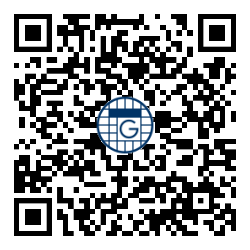
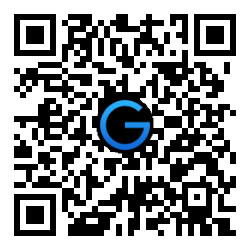
Sourcecode Seriousgulden.nl

diff --git a/index.html b/index.html
@@ -2,15 +2,18 @@
 
 <head>
 <title> SeriousGulden - Doneer Gulden voor Serious Request </title>
-    <link rel="stylesheet" type="text/css" href="demo.css">
-    <script type="text/javascript" src="http://ajax.googleapis.com/ajax/libs/jquery/1.8.1/jquery.min.js"></script>
-	<script src="http://cdnjs.cloudflare.com/ajax/libs/waypoints/2.0.3/waypoints.min.js"></script>
-	<script src="jquery.counterup.min.js"></script>
-    <script type="text/javascript">
+   <link rel="stylesheet" type="text/css" href="http://gulden.cbtoo.nl/wp-content/plugins/nlg/demo.css">
+<script type="text/javascript" src="http://ajax.googleapis.com/ajax/libs/jquery/1.8.1/jquery.min.js"></script> 
+<script type="text/javascript" src="https://cdnjs.cloudflare.com/ajax/libs/waypoints/4.0.0/jquery.waypoints.min.js"></script> 
+<script type="text/javascript" src="http://seriousgulden.nl/wp-content/uploads/jquery.counterup2.0.5.js"></script>
+<script type="text/javascript">
        
+	var oldbalance = 0;
+	var newbalance = 0;
     function getdata()
 	{
-	var guldenaddress = 'GZcNd1FdkHwBAdyaCebMfWenTbACqdfDk9';
+	var guldenaddress = 'GMEpjpcXsk3bgGipSLsQEJ6jdC24fM3tdV';
+	
     $.ajax({
         url: "https://blockchain.gulden.com/api/addr/" + guldenaddress +"/",
         type: 'GET',
@@ -22,19 +25,89 @@
             return true;
         },
         success: function(data){ 
-		$('.counter').append(data.balance);
-		$('.counter').counterUp(
-		{
-			delay: 5 ,
-			time: 1000
-		});
+		
+		if(data.balance +data.unconfirmedBalance > 0){
+			if(oldbalance == 0 && newbalance == 0){
+				newbalance = data.balance + data.unconfirmedBalance
+				$('.counter')[0].innerHTML = '';
+				$('.counter').append(newbalance.toFixed(2));
+				$('.counter').counterUp(
+				{
+					delay: 5 ,
+					time: 1000
+				});				
+			}
+			else{
+				if((data.balance + data.unconfirmedBalance) != newbalance){
+				oldbalance = newbalance;
+				newbalance = data.balance + data.unconfirmedBalance;
+				$('.counter')[0].innerHTML = '';
+				$('.counter').append(newbalance.toFixed(2));
+				$('.counter').counterUp(
+				{
+					delay: 5 ,
+					time: 1000
+				});
+						}
+					}
+				
+				}
+
 		
 		
         }
     });
 };
-function counter(){
-}
+
+var timeout = setInterval(getdata, 5000);
+
+
+
+// Click on button to scroll down the page.
+
+$('document').ready(function(){
+getdata(); 
+var buttonContinue = $('a.button-continue');
+ buttonContinue.click(function(){
+   var scrollToPosition = $('#secondsection').offset().top;
+   $('html, body').animate({
+     scrollTop: scrollToPosition
+   }, 500);
+ });
+
+
+});
+
+
+
+    </script>
+<style>
+a.button-continue {
+cursor: pointer;
+   position: absolute;
+   left: 0;
+   right: 0;
+   bottom: 4%;
+   display: block;
+   margin: 0 auto;
+   width: 55px;
+   height: 55px;
+   background-image: url(http://seriousgulden.nl/wp-content/uploads/home-banners-continue.png);
+   background-position: center center;
+   background-repeat: no-repeat;
+   background-color: #0097dd ;
+   z-index: 9999;
+   border-radius: 100%;
+   -o-border-radius: 100%;
+   -moz-border-radius: 100%;
+   -webkit-border-radius: 100%;
+   transform: translateY(-4%);
+   animation: updown 0.5s infinite;
+   -o-animation: updown 0.5s infinite;
+   -moz-animation: updown 0.5s infinite;
+   -webkit-animation: updown 0.5s infinite;
+   animation-direction: alternate;
+</style>
     </script>
 </head>
 
@@ -48,7 +121,8 @@ function counter(){
 		<div class="container"> 
 			<h1>Er zijn al <img src="https://developer.gulden.com/images/branding/gblue32x32.png" style="margin-top:2px;"/>&nbsp;<div id="sample_goal"><span class="counter"></span></div> opgehaald!</h1>
 		</div>
-		<img src="qr.png" />
+		<img src="qr.png" /><br />
+		Gulden adres: <a href="Gulden:GMEpjpcXsk3bgGipSLsQEJ6jdC24fM3tdV">GMEpjpcXsk3bgGipSLsQEJ6jdC24fM3tdV</a> <br />
 		<p>
 				Deze webpagina is speciaal gemaakt voor Serious Request!
 			</p>
